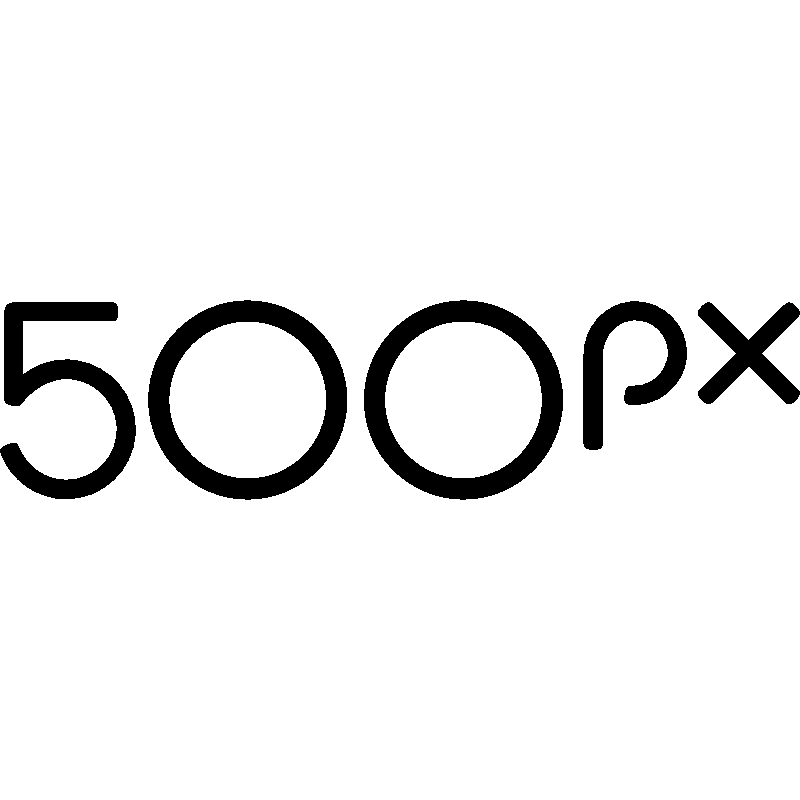
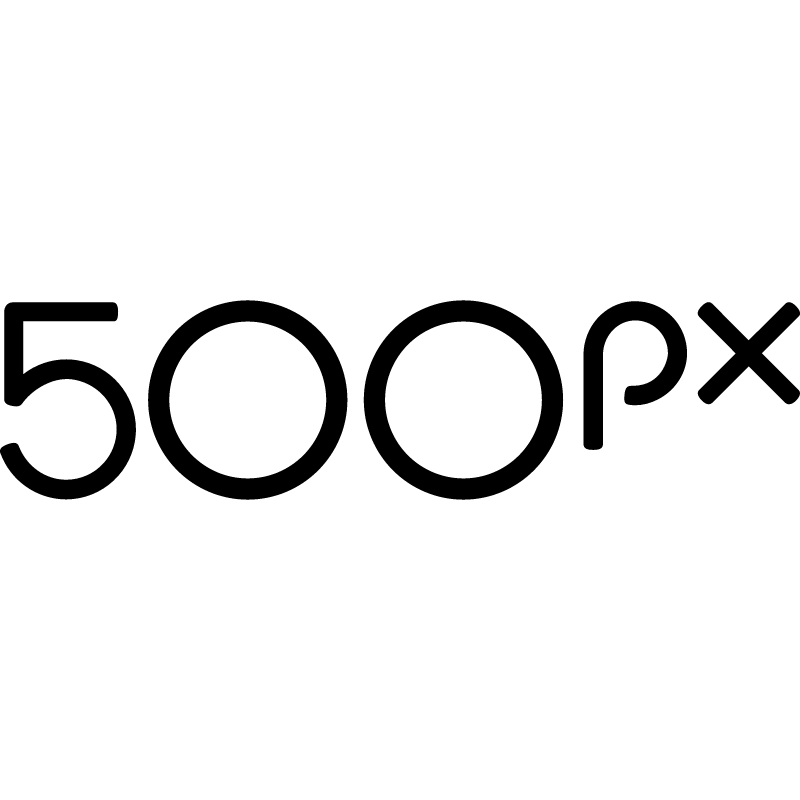
fix: use the correct resvg-js parameters to avoid PNG jaggies

diff --git a/scripts/benchmark/resvg.js b/scripts/benchmark/resvg.js
@@ -6,13 +6,9 @@ export default svg => (
 			loadSystemFonts: false,
 		},
 		logLevel: 'off',
-		imageRendering: 1,
-		textRendering: 0,
-		shapeRendering: 0,
 		fitTo: {
 			mode: 'width',
 			value: 800,
 		},
-		dpi: 2400,
 	}).render().asPng()
 );
